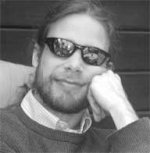
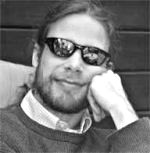
open graph

diff --git a/_includes/head.html b/_includes/head.html
@@ -6,7 +6,7 @@
     <meta property="og:url" content="{{ page.url | replace:'index.html','' | prepend: site.baseurl | prepend: site.url }}">
 	<meta property="og:title" content="{% if page.title %}{{ page.title }}{% else %}{{ site.title }}{% endif %}">
     <meta property="og:type" content="website">
-    <meta property="og:image" content="{% if page.og_img %}{{ page.og_img }}{% elsif site.og_img %}{{ site.og_img }}{% else %}http://static-ddittmar.appspot.com/images/personal.jpg{% endif %}">
+    <meta property="og:image" content="{% if page.og_img %}{{ page.og_img }}{% elsif site.og_img %}{{ site.og_img }}{% else %}http://static-ddittmar.appspot.com/images/personal.png{% endif %}">
     <meta property="og:description" content="{% if page.excerpt %}{{ page.excerpt | strip_html }}{% elsif page.description %}{{ page.description | strip_html }}{% else %}{{ site.description }}{% endif %}">
 
     <link rel="alternate" hreflang="x-default" href="{{ page.url | replace:'index.html','' | prepend: site.baseurl | prepend: site.url }}">
